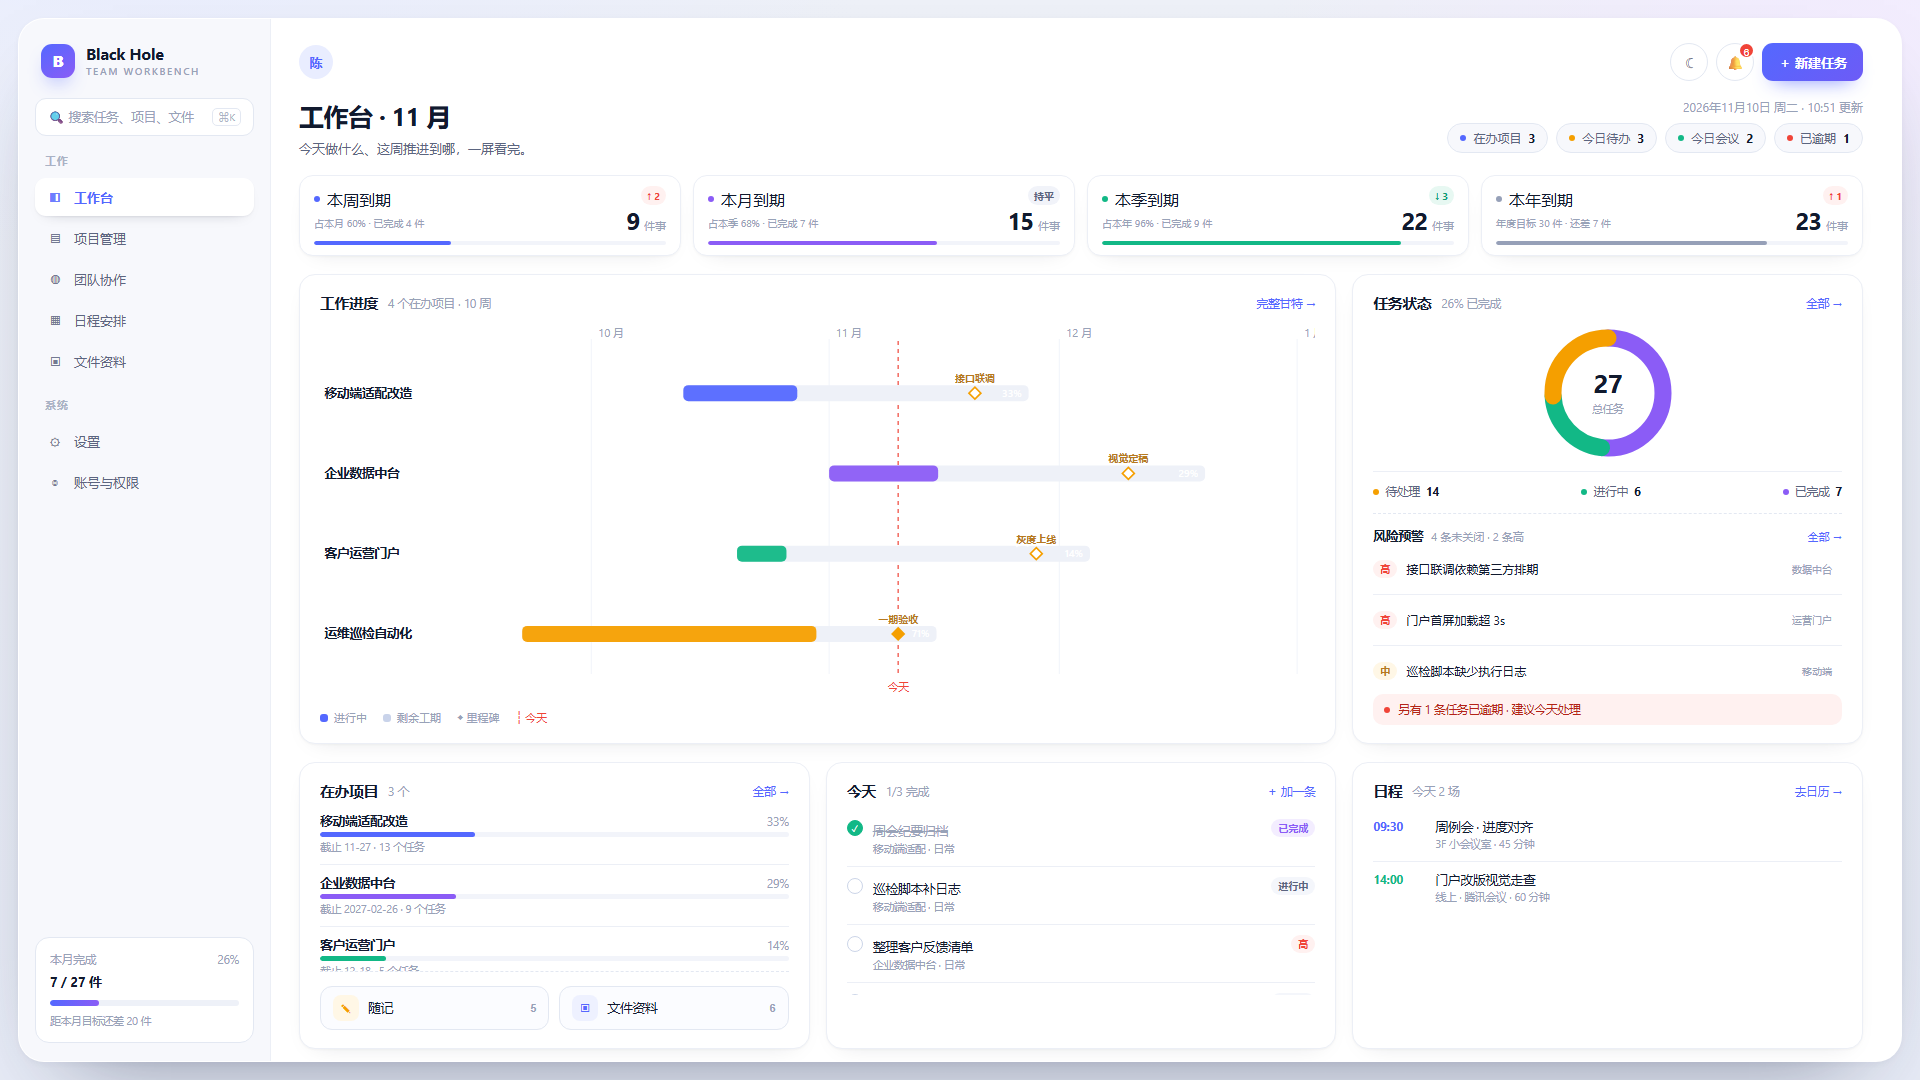
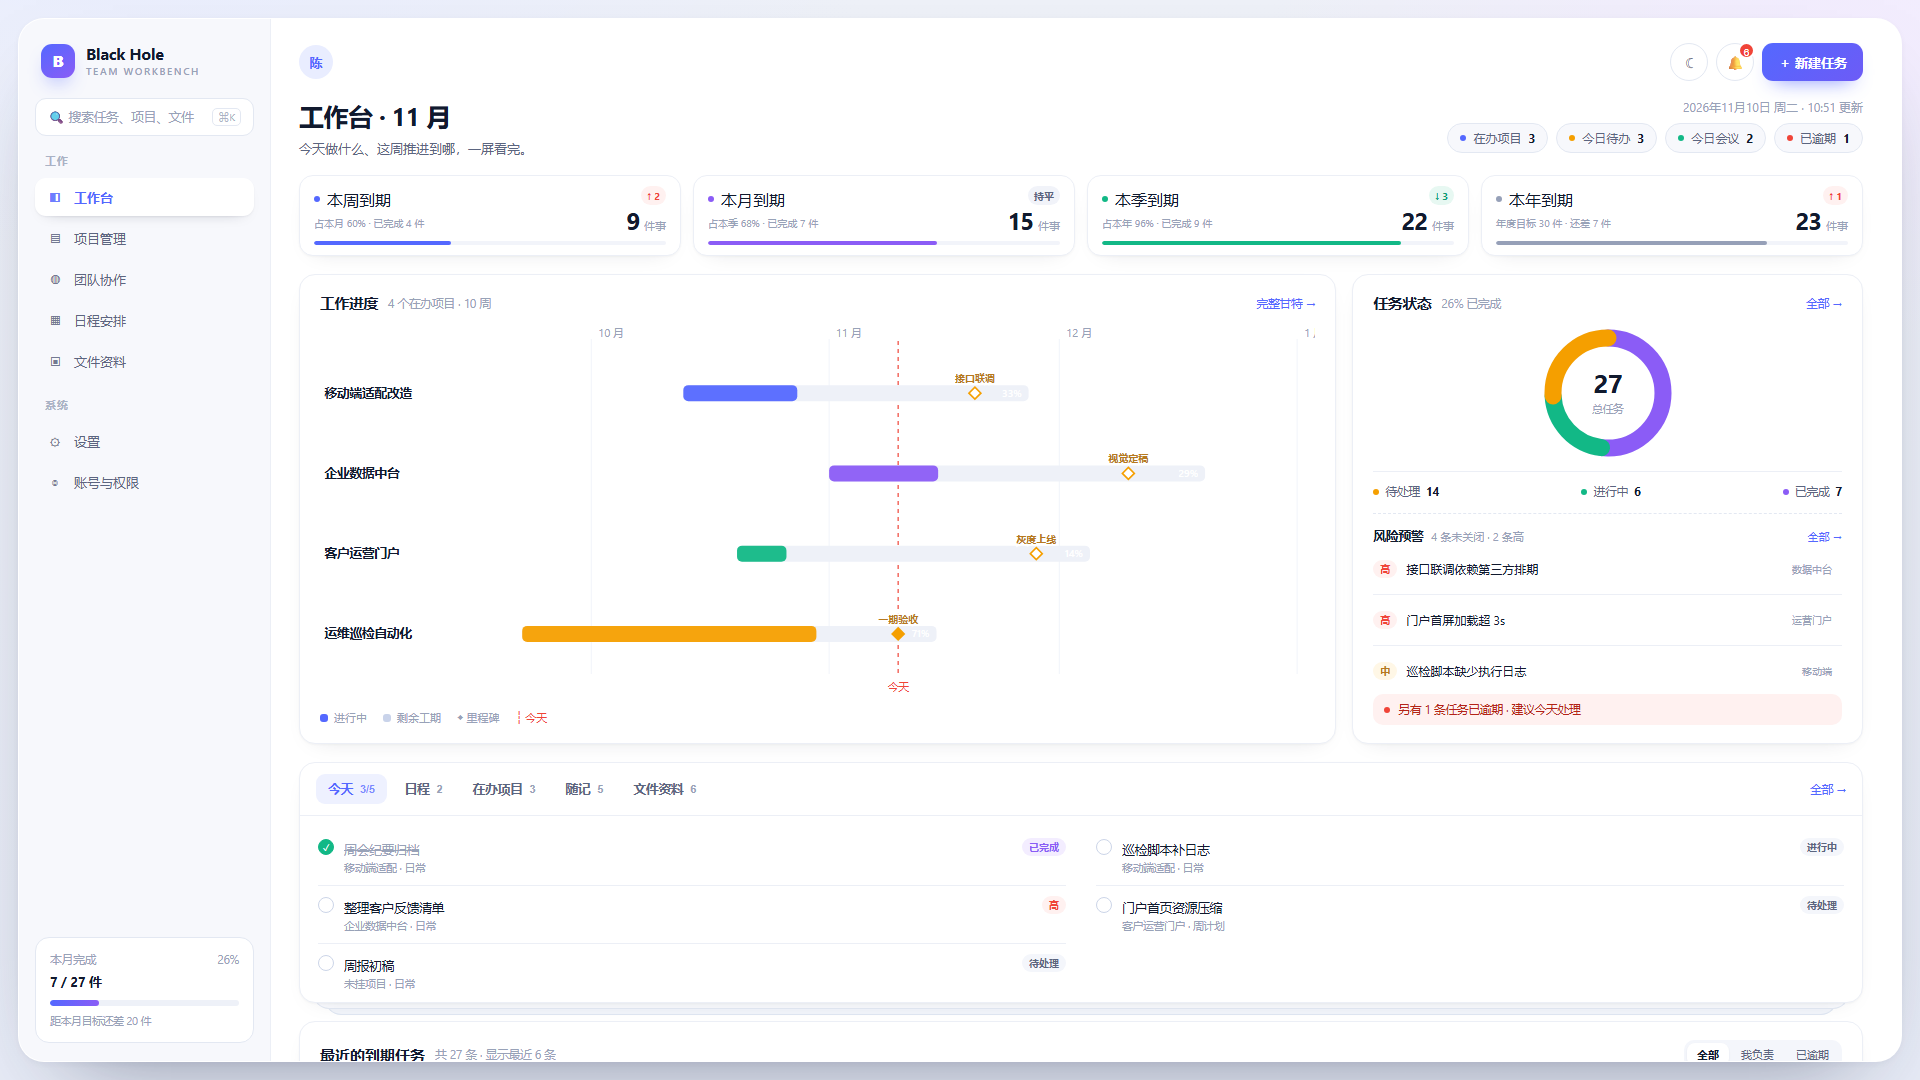
docs(demo): 今天/日程/在办项目/随记/文件资料合成为一张堆叠卡，标签切换
- 原来三张并排卡（在办项目 / 今天 / 日程）加两张入口，合成一张全宽堆叠卡
- 顶部五个标签：今天 3/5 · 日程 2 · 在办项目 3 · 随记 5 · 文件资料 6，点击切换内容
- 卡背后两层错位浅灰边（deck::before/after），做出一叠卡片的层次；
  第一版用白底白边看不见，改成 #f2f5fb 填充 + #dfe6f2 描边才看得出
- 内容区双列排布（待办/项目/文件）、随记三张便签横排；高度固定 186px，超出内滚
- 修复：卡片替换后三处 getElementById 取到 null 导致整段 JS 中断
  （openNotes / note-add 输入框），全部改为存在性判断
- 自检：五个标签逐一点击，面板高度与条目数均正常（5/2/4/3/4），无 console 错误

diff --git a/docs/demo/workbench-demo.html b/docs/demo/workbench-demo.html
@@ -192,6 +192,33 @@
   .bc .tk i{width:100%;border-radius:8px;background:linear-gradient(180deg,#94a8ff,#5468ff)}
   .bc .lb{font-size:10px;color:var(--muted);white-space:nowrap}
 
+  /* 堆叠卡：三张并排合成一张，标签切换 + 背后的层层错位边 */
+  .stack-card{grid-column:span 12;position:relative;padding:0;background:transparent;border:0;box-shadow:none}
+  .stack-card .deck{position:relative}
+  .stack-card .deck::before,
+  .stack-card .deck::after{content:'';position:absolute;height:16px;background:#f2f5fb;
+    border:1px solid #dfe6f2;border-top:0;border-radius:0 0 16px 16px;z-index:0;
+    box-shadow:0 6px 14px -10px rgba(17,26,46,.35)}
+  .stack-card .deck::before{bottom:-12px;left:26px;right:26px}
+  .stack-card .deck::after{bottom:-6px;left:14px;right:14px;background:#fafbfe;border-color:#e4eaf4}
+  .stack-inner{position:relative;z-index:1;background:#fff;border:1px solid var(--line);border-radius:var(--r);box-shadow:var(--shadow);overflow:hidden}
+  .stack-head{display:flex;align-items:center;gap:6px;padding:11px 16px;border-bottom:1px solid var(--line);flex-wrap:wrap}
+  .stack-tab{display:inline-flex;align-items:center;gap:7px;height:30px;padding:0 12px;border-radius:9px;border:0;background:transparent;
+    font-size:12.5px;font-weight:550;color:var(--text-2);cursor:pointer;transition:.15s}
+  .stack-tab:hover{background:#f5f7fc;color:var(--text)}
+  .stack-tab.on{background:var(--brand-soft);color:var(--brand);font-weight:650}
+  .stack-tab .cnt{font-size:10.5px;color:var(--muted);font-weight:700}
+  .stack-tab.on .cnt{color:var(--brand);opacity:.75}
+  .stack-head .more{margin-left:auto;font-size:11.5px;color:var(--brand);text-decoration:none}
+  .stack-body{padding:12px 18px 14px;height:186px;overflow-y:auto}
+  .stack-panel{display:none}
+  .stack-panel.on{display:block}
+  .stack-2col{display:grid;grid-template-columns:repeat(2,minmax(0,1fr));gap:0 30px}
+  .stack-2col .li:nth-child(2),.stack-2col .ev:nth-child(2){border-top:0}
+  .stack-note{display:grid;grid-template-columns:repeat(3,minmax(0,1fr));gap:10px}
+  .stack-note .sticky{min-height:86px}
+  .stack-empty{display:grid;place-items:center;height:150px;color:var(--muted);font-size:12.5px}
+
   /* 表格 */
   .table-card{grid-column:span 12;padding-bottom:6px}
   .tb-head{display:flex;align-items:center;gap:10px;margin-bottom:12px}
@@ -414,41 +441,70 @@
       </div>
     </section>
 
-    <!-- 在办项目(含随记/文件) | 今天 | 日程 -->
+    <!-- 堆叠卡：今天 / 日程 / 在办项目 / 随记 / 文件资料，标签切换 -->
     <section class="row">
-      <div class="card proj-card">
-        <div class="card-h"><h3>在办项目</h3><span class="sub">3 个</span><a class="more" href="#">全部 →</a></div>
-        <div class="hv-scroll pj-list">
-          <div class="pj"><span class="nm">移动端适配改造</span><span class="pc">33%</span><div class="bar"><i style="width:33%;background:#5468ff"></i></div><span class="due">截止 11-27 · 13 个任务</span></div>
-          <div class="pj"><span class="nm">企业数据中台</span><span class="pc">29%</span><div class="bar"><i style="width:29%;background:#8b5cf6"></i></div><span class="due">截止 2027-02-26 · 9 个任务</span></div>
-          <div class="pj"><span class="nm">客户运营门户</span><span class="pc">14%</span><div class="bar"><i style="width:14%;background:#12b886"></i></div><span class="due">截止 12-18 · 5 个任务</span></div>
-        </div>
-        <div class="quick">
-          <button class="qbtn" id="openNotes">
-            <span class="ic" style="background:#fff7e6;color:#f59f00">✎</span>随记<span class="n">5</span>
-          </button>
-          <button class="qbtn" onclick="alert('跳转到文件资料页（demo 占位）')">
-            <span class="ic" style="background:#eef1ff;color:#5468ff">▣</span>文件资料<span class="n">6</span>
-          </button>
-        </div>
-      </div>
+      <div class="stack-card">
+        <div class="deck">
+          <div class="stack-inner">
+            <div class="stack-head">
+              <button class="stack-tab on" data-tab="today">今天 <span class="cnt">3/5</span></button>
+              <button class="stack-tab" data-tab="agenda">日程 <span class="cnt">2</span></button>
+              <button class="stack-tab" data-tab="projects">在办项目 <span class="cnt">3</span></button>
+              <button class="stack-tab" data-tab="notes">随记 <span class="cnt">5</span></button>
+              <button class="stack-tab" data-tab="files">文件资料 <span class="cnt">6</span></button>
+              <a class="more" id="stackMore" href="#">全部 →</a>
+            </div>
 
-      <div class="card c4">
-        <div class="card-h"><h3>今天</h3><span class="sub">1/3 完成</span><a class="more" href="#">＋ 加一条</a></div>
-        <div class="list hv-scroll">
-          <div class="li done"><span class="ck">✓</span><div><span class="tt">周会纪要归档</span><span class="mt">移动端适配 · 日常</span></div><span class="st ok">已完成</span></div>
-          <div class="li"><span class="ck"></span><div><span class="tt">巡检脚本补日志</span><span class="mt">移动端适配 · 日常</span></div><span class="st">进行中</span></div>
-          <div class="li"><span class="ck"></span><div><span class="tt">整理客户反馈清单</span><span class="mt">企业数据中台 · 日常</span></div><span class="st hot">高</span></div>
-          <div class="li"><span class="ck"></span><div><span class="tt">门户首页资源压缩</span><span class="mt">客户运营门户 · 周计划</span></div><span class="st">待处理</span></div>
-          <div class="li"><span class="ck"></span><div><span class="tt">周报初稿</span><span class="mt">未挂项目 · 日常</span></div><span class="st">待处理</span></div>
-        </div>
-      </div>
+            <div class="stack-body hv-scroll">
+              <!-- 今天 -->
+              <div class="stack-panel on" data-panel="today">
+                <div class="stack-2col">
+                  <div class="li done"><span class="ck">✓</span><div><span class="tt">周会纪要归档</span><span class="mt">移动端适配 · 日常</span></div><span class="st ok">已完成</span></div>
+                  <div class="li"><span class="ck"></span><div><span class="tt">巡检脚本补日志</span><span class="mt">移动端适配 · 日常</span></div><span class="st">进行中</span></div>
+                  <div class="li"><span class="ck"></span><div><span class="tt">整理客户反馈清单</span><span class="mt">企业数据中台 · 日常</span></div><span class="st hot">高</span></div>
+                  <div class="li"><span class="ck"></span><div><span class="tt">门户首页资源压缩</span><span class="mt">客户运营门户 · 周计划</span></div><span class="st">待处理</span></div>
+                  <div class="li"><span class="ck"></span><div><span class="tt">周报初稿</span><span class="mt">未挂项目 · 日常</span></div><span class="st">待处理</span></div>
+                </div>
+              </div>
 
-      <div class="card c4">
-        <div class="card-h"><h3>日程</h3><span class="sub">今天 2 场</span><a class="more" href="#">去日历 →</a></div>
-        <div class="list hv-scroll">
-          <div class="ev"><span class="tm">09:30</span><div><div class="nm">周例会 · 进度对齐</div><div class="lc">3F 小会议室 · 45 分钟</div></div></div>
-          <div class="ev live"><span class="tm">14:00</span><div><div class="nm">门户改版视觉走查</div><div class="lc">线上 · 腾讯会议 · 60 分钟</div></div></div>
+              <!-- 日程 -->
+              <div class="stack-panel" data-panel="agenda">
+                <div class="stack-2col">
+                  <div class="ev"><span class="tm">09:30</span><div><div class="nm">周例会 · 进度对齐</div><div class="lc">3F 小会议室 · 45 分钟</div></div></div>
+                  <div class="ev live"><span class="tm">14:00</span><div><div class="nm">门户改版视觉走查</div><div class="lc">线上 · 腾讯会议 · 60 分钟</div></div></div>
+                </div>
+              </div>
+
+              <!-- 在办项目 -->
+              <div class="stack-panel" data-panel="projects">
+                <div class="stack-2col">
+                  <div class="pj"><span class="nm">移动端适配改造</span><span class="pc">33%</span><div class="bar"><i style="width:33%;background:#5468ff"></i></div><span class="due">截止 11-27 · 13 个任务</span></div>
+                  <div class="pj"><span class="nm">企业数据中台</span><span class="pc">29%</span><div class="bar"><i style="width:29%;background:#8b5cf6"></i></div><span class="due">截止 2027-02-26 · 9 个任务</span></div>
+                  <div class="pj"><span class="nm">客户运营门户</span><span class="pc">14%</span><div class="bar"><i style="width:14%;background:#12b886"></i></div><span class="due">截止 12-18 · 5 个任务</span></div>
+                  <div class="pj"><span class="nm">运维巡检自动化</span><span class="pc">71%</span><div class="bar"><i style="width:71%;background:#f59f00"></i></div><span class="due">截止 11-15 · 6 个任务</span></div>
+                </div>
+              </div>
+
+              <!-- 随记 -->
+              <div class="stack-panel" data-panel="notes">
+                <div class="stack-note">
+                  <div class="sticky"><div class="t">客户提出报表要能按月对比</div><div class="f"><span>11-08</span><span>删</span></div></div>
+                  <div class="sticky"><div class="t">门户首页加载慢，看看首屏资源</div><div class="f"><span>11-08</span><span>删</span></div></div>
+                  <div class="sticky"><div class="t">把审批流里的驳回原因做成必填</div><div class="f"><span>11-07</span><span>删</span></div></div>
+                </div>
+              </div>
+
+              <!-- 文件资料 -->
+              <div class="stack-panel" data-panel="files">
+                <div class="stack-2col">
+                  <div class="file"><span class="ic" style="background:#12b886">X</span><div><div class="nm">需求清单-1108.xlsx</div><div class="mt">11-08 更新</div></div><span class="sz">21.6 KB</span></div>
+                  <div class="file"><span class="ic" style="background:#5468ff">D</span><div><div class="nm">门户改版视觉稿.docx</div><div class="mt">11-07 更新</div></div><span class="sz">1.2 MB</span></div>
+                  <div class="file"><span class="ic" style="background:#f04438">P</span><div><div class="nm">接口联调记录.pdf</div><div class="mt">11-06 更新</div></div><span class="sz">486 KB</span></div>
+                  <div class="file"><span class="ic" style="background:#8b5cf6">Z</span><div><div class="nm">巡检脚本备份.zip</div><div class="mt">11-05 更新</div></div><span class="sz">3.4 MB</span></div>
+                </div>
+              </div>
+            </div>
+          </div>
         </div>
       </div>
     </section>
@@ -631,8 +687,12 @@
 
 /* ---------- 便签栈 ---------- */
 const overlay = document.getElementById('notesOverlay');
-document.getElementById('openNotes').addEventListener('click', () => overlay.classList.add('on'));
-document.getElementById('closeNotes').addEventListener('click', () => overlay.classList.remove('on'));
+['openNotes', 'openNotesTop'].forEach(id => {
+  const btn = document.getElementById(id);
+  if (btn) btn.addEventListener('click', () => overlay.classList.add('on'));
+});
+const closeBtn = document.getElementById('closeNotes');
+if (closeBtn) closeBtn.addEventListener('click', () => overlay.classList.remove('on'));
 overlay.addEventListener('click', e => { if (e.target === overlay) overlay.classList.remove('on'); });
 
 const stack = document.getElementById('stack');
@@ -671,6 +731,27 @@ document.querySelectorAll('.hv-scroll').forEach(box => {
     box._t = setTimeout(() => box.classList.remove('is-hover'), 900);
   }, { passive: true });
 });
+
+/* ---------- 堆叠卡：标签切换 ---------- */
+(() => {
+  const tabs = [...document.querySelectorAll('.stack-tab')];
+  const panels = [...document.querySelectorAll('.stack-panel')];
+  const more = document.getElementById('stackMore');
+  const moreMap = {
+    today: '/projects?view=tasks&due=today',
+    agenda: '/calendar',
+    projects: '/projects?view=projects',
+    notes: '#',
+    files: '/files',
+  };
+  tabs.forEach(tab => tab.addEventListener('click', () => {
+    tabs.forEach(t => t.classList.toggle('on', t === tab));
+    const key = tab.dataset.tab;
+    panels.forEach(p => p.classList.toggle('on', p.dataset.panel === key));
+    if (more) more.textContent = '全部 →';
+    more?.setAttribute('data-view', key);
+  }));
+})();
 
 /* ---------- 待办勾选 / 分段 ---------- */
 document.querySelectorAll('.ck').forEach(el => {
